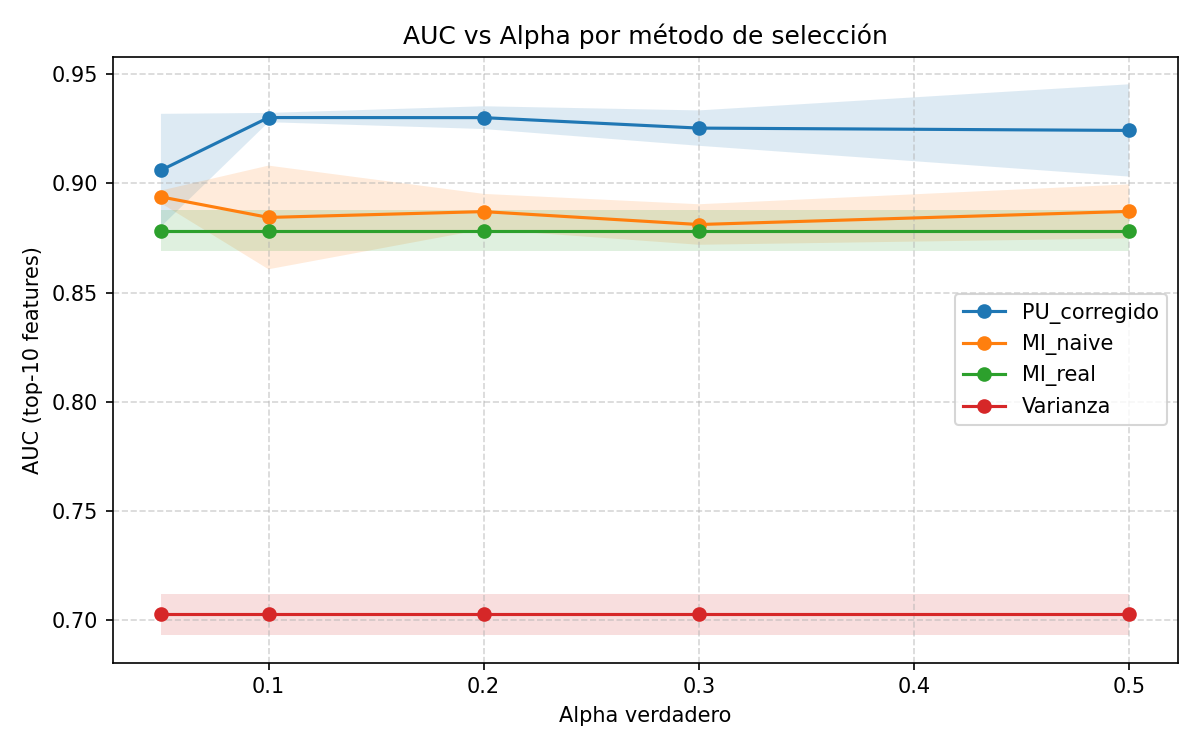
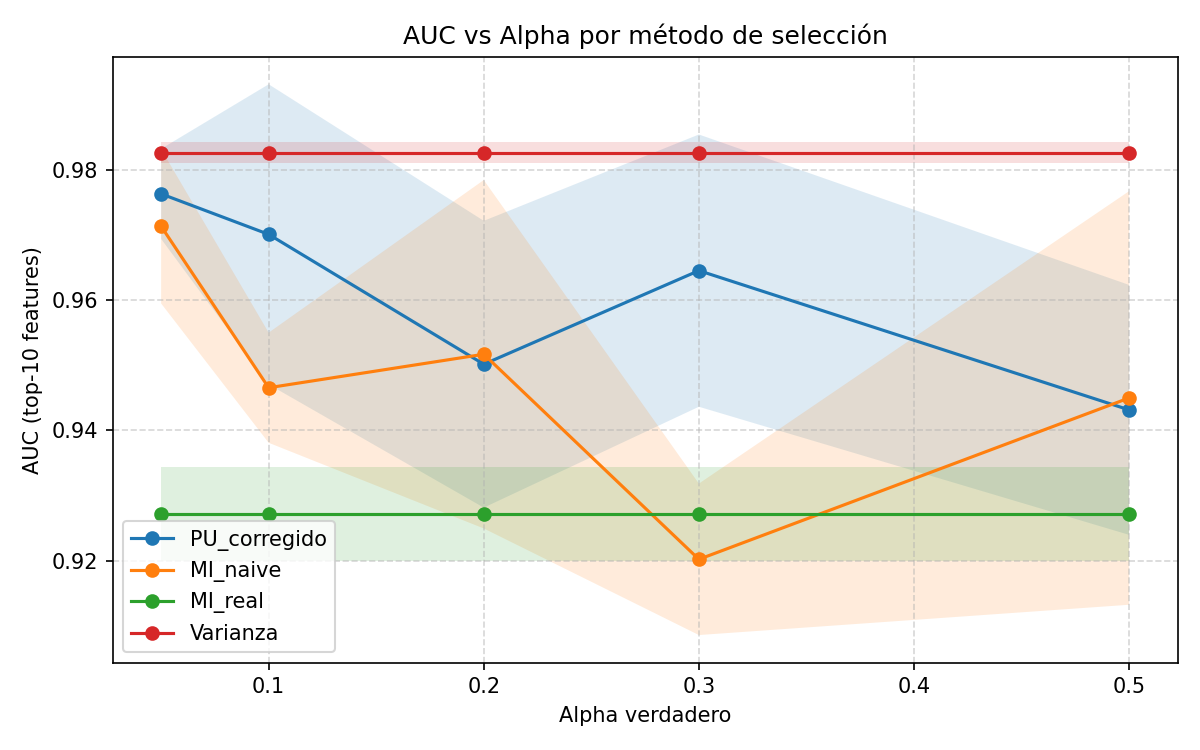
pipeline gas

diff --git a/src/config.py b/src/config.py
@@ -9,7 +9,7 @@ SWEEP_ALPHAS = [0.5, 0.3, 0.2, 0.1, 0.05]
 SWEEP_SEEDS = [0, 1, 2, 3, 4]
 
 # Ruido gaussiano en features (0 = sin ruido; p.ej. 0.3 = 30% de la std por feature)
-NOISE_LEVEL = 0.5
+NOISE_LEVEL = 0
 
 # Parámetros generales
 TOP_K = 10
